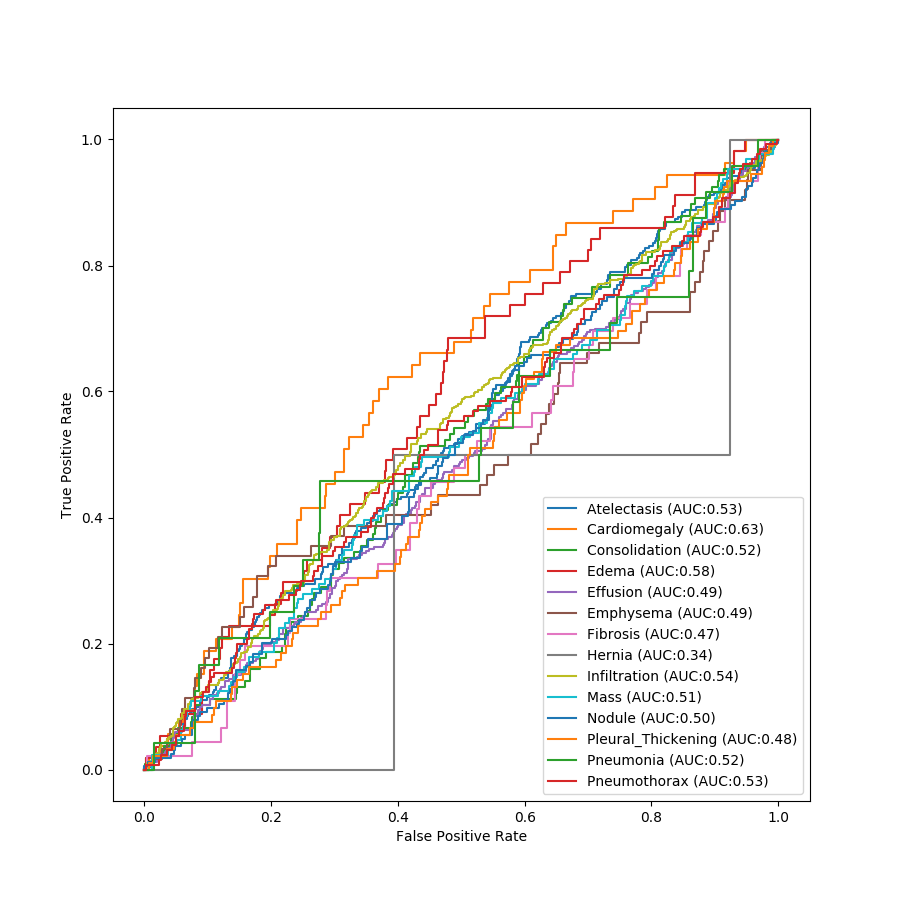
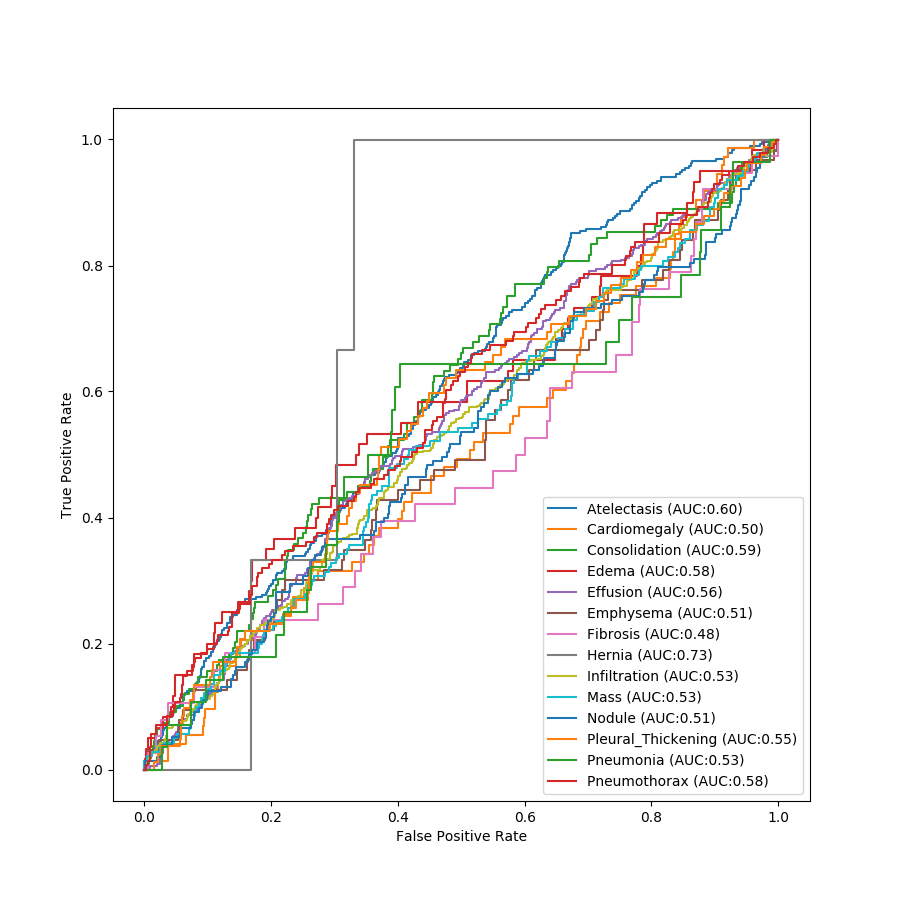
50_10

diff --git a/one_gpu_nih.py b/one_gpu_nih.py
@@ -119,7 +119,7 @@ model.compile(loss='categorical_crossentropy', optimizer='adam', metrics=['accur
 model.summary()
 
 
-history = model.fit(X_train, y_train, epochs = 100, batch_size=64, verbose=1, validation_data=(X_test, y_test), shuffle=True)
+history = model.fit(X_train, y_train, epochs = 200, batch_size=64, verbose=1, validation_data=(X_test, y_test), shuffle=True)
 
 model.save('../nih_sample/nih_model_50_10.h5')
 def history_plot(history):
